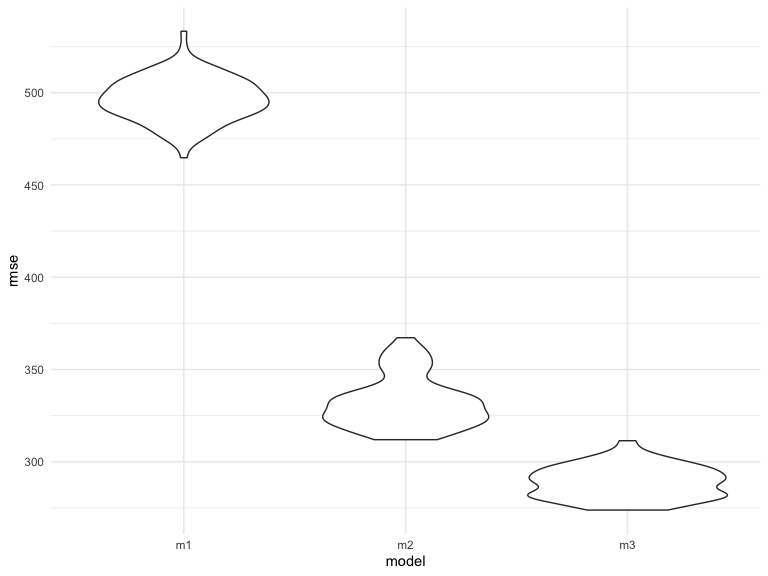
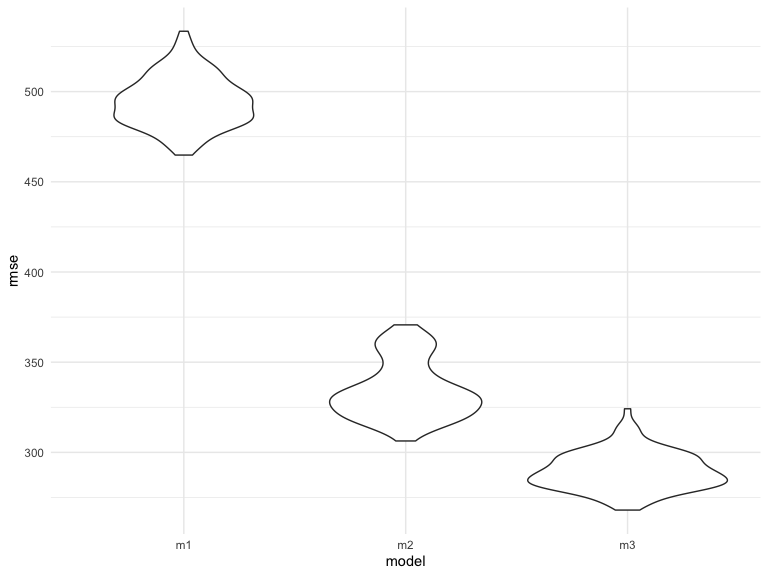
update

diff --git a/p8105_hw6_jc5924.md b/p8105_hw6_jc5924.md
@@ -281,4 +281,7 @@ bw_plot = bw_df %>%
 bw_plot
 ```
 
-<img src="p8105_hw6_jc5924_files/figure-gfm/cv-1.png" width="90%" />
+<img src="p8105_hw6_jc5924_files/figure-gfm/cv-1.png" width="90%" /> \*
+According to the plot, we can tell that comparing to model 1, model 3
+has relatively the low RMSE and model 1 has a relatively large RMSE.
+Model 3 is preferred since it has the smallest RMSE.
